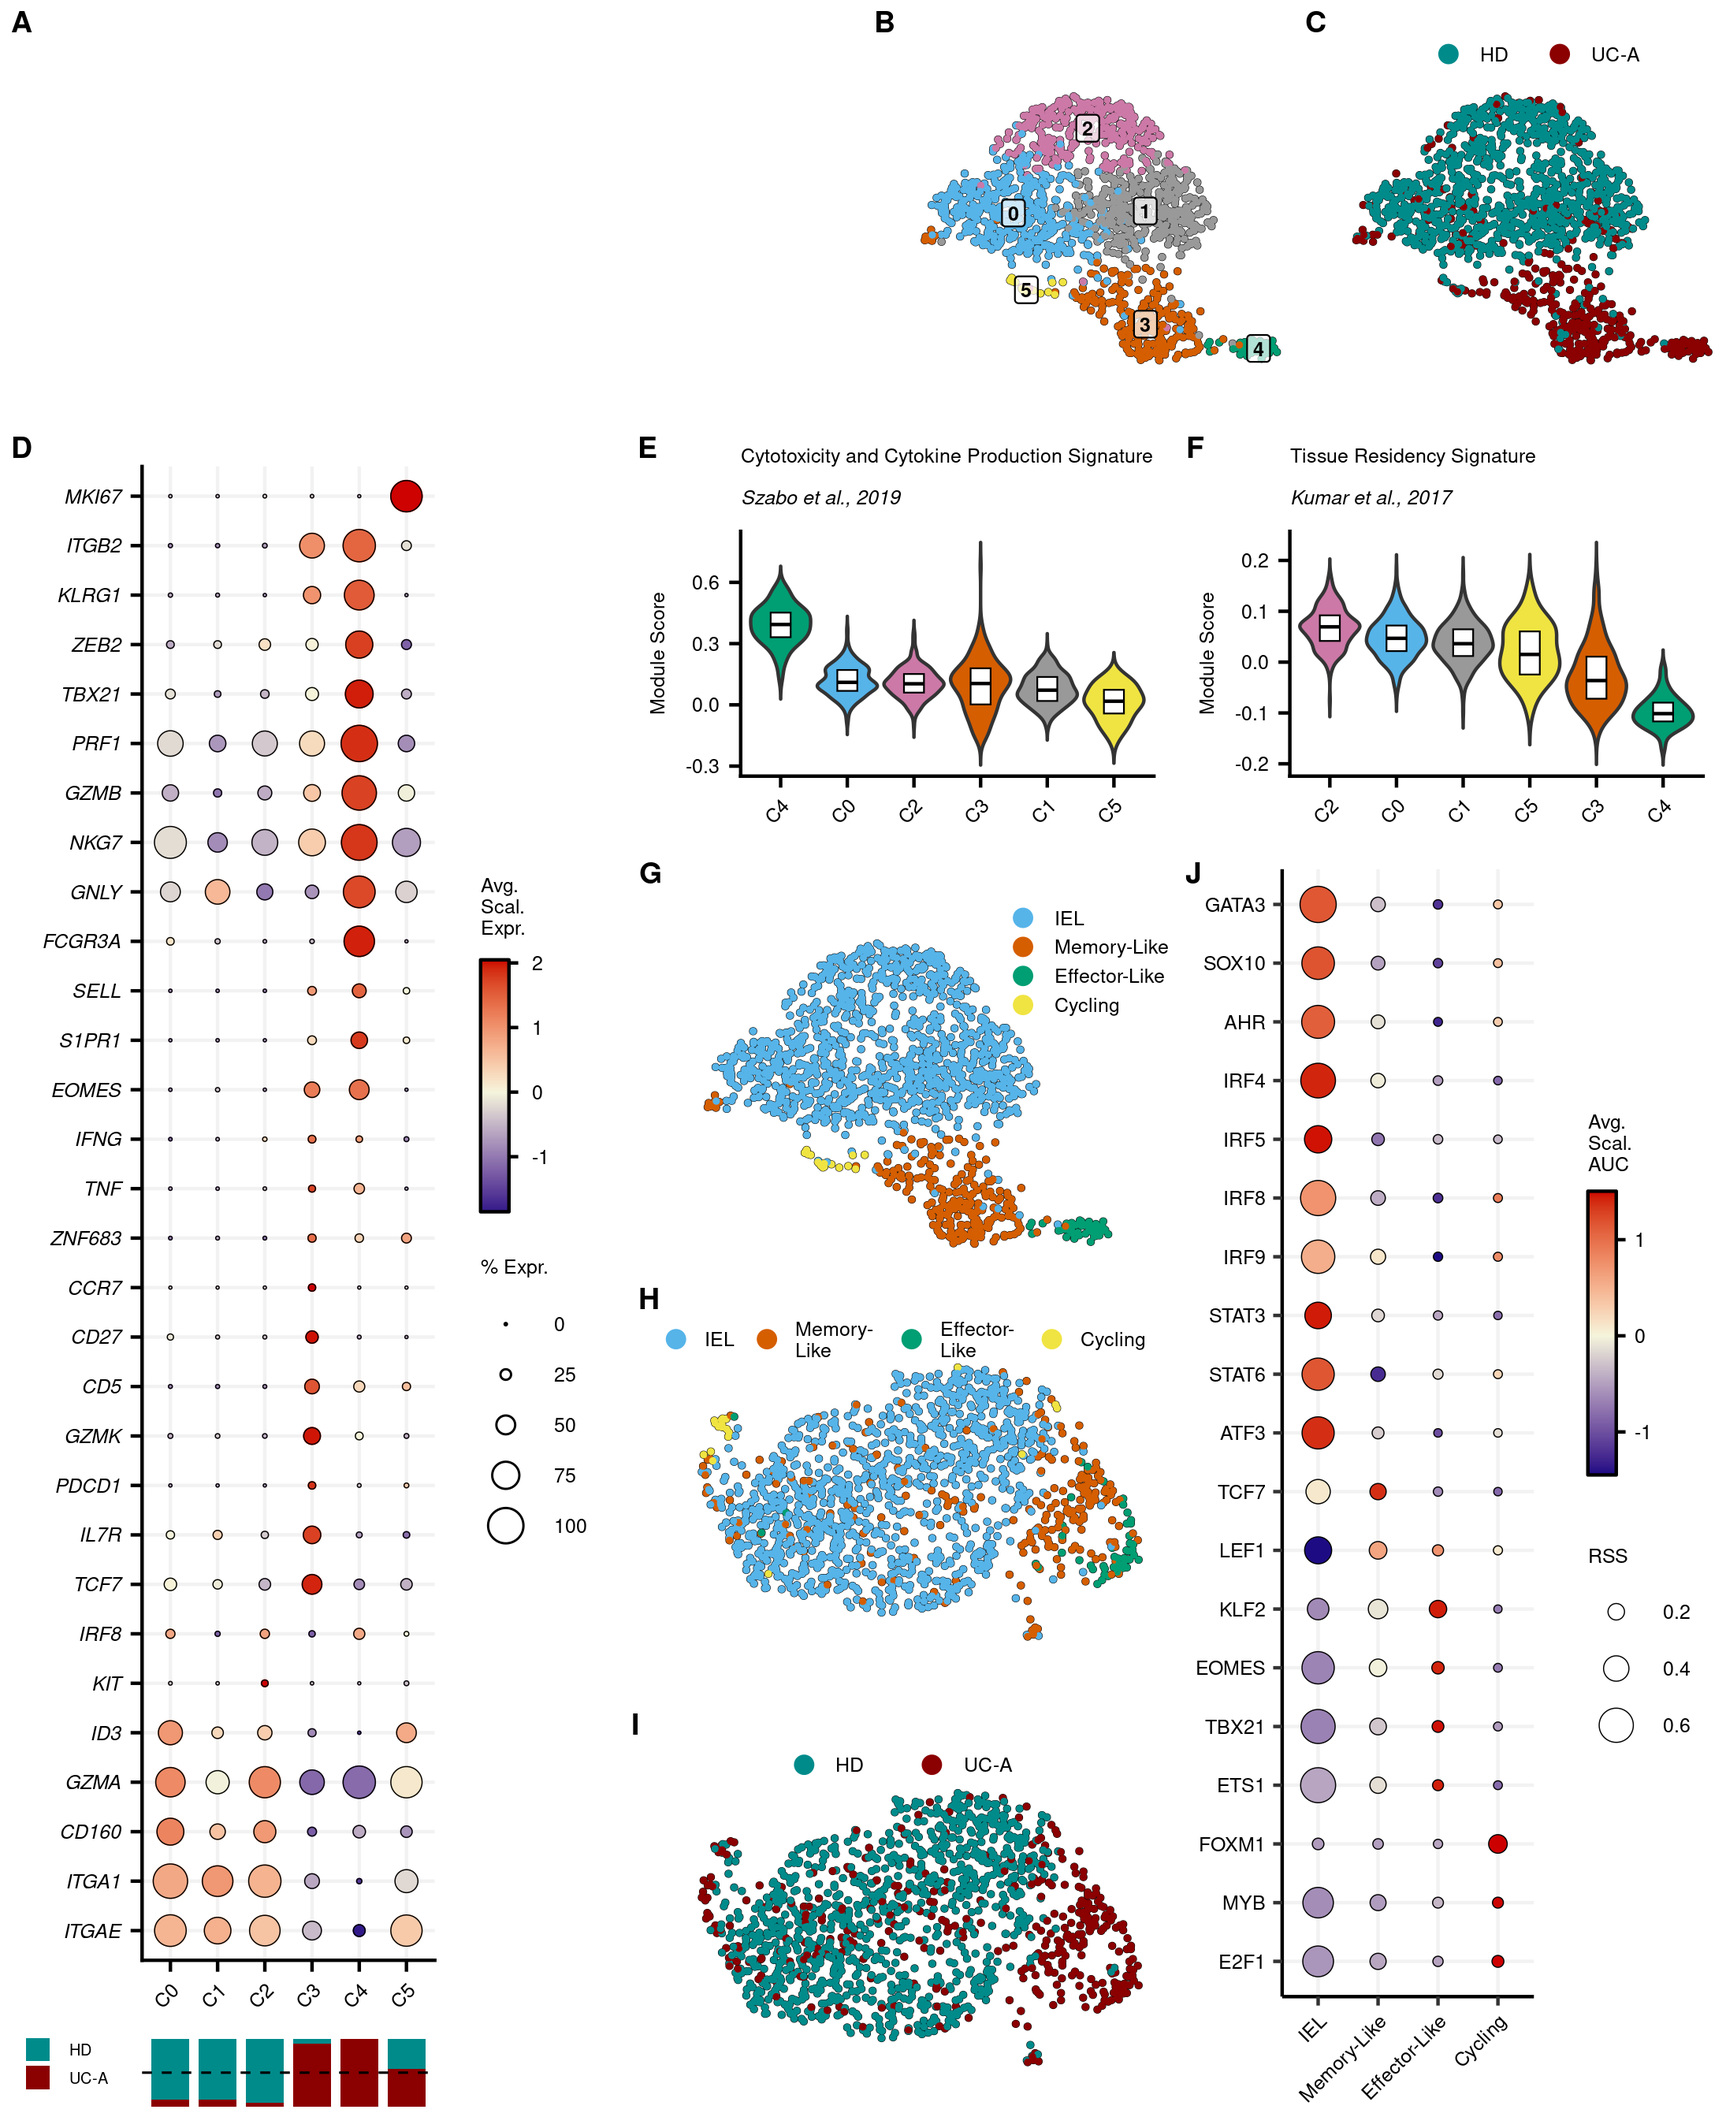
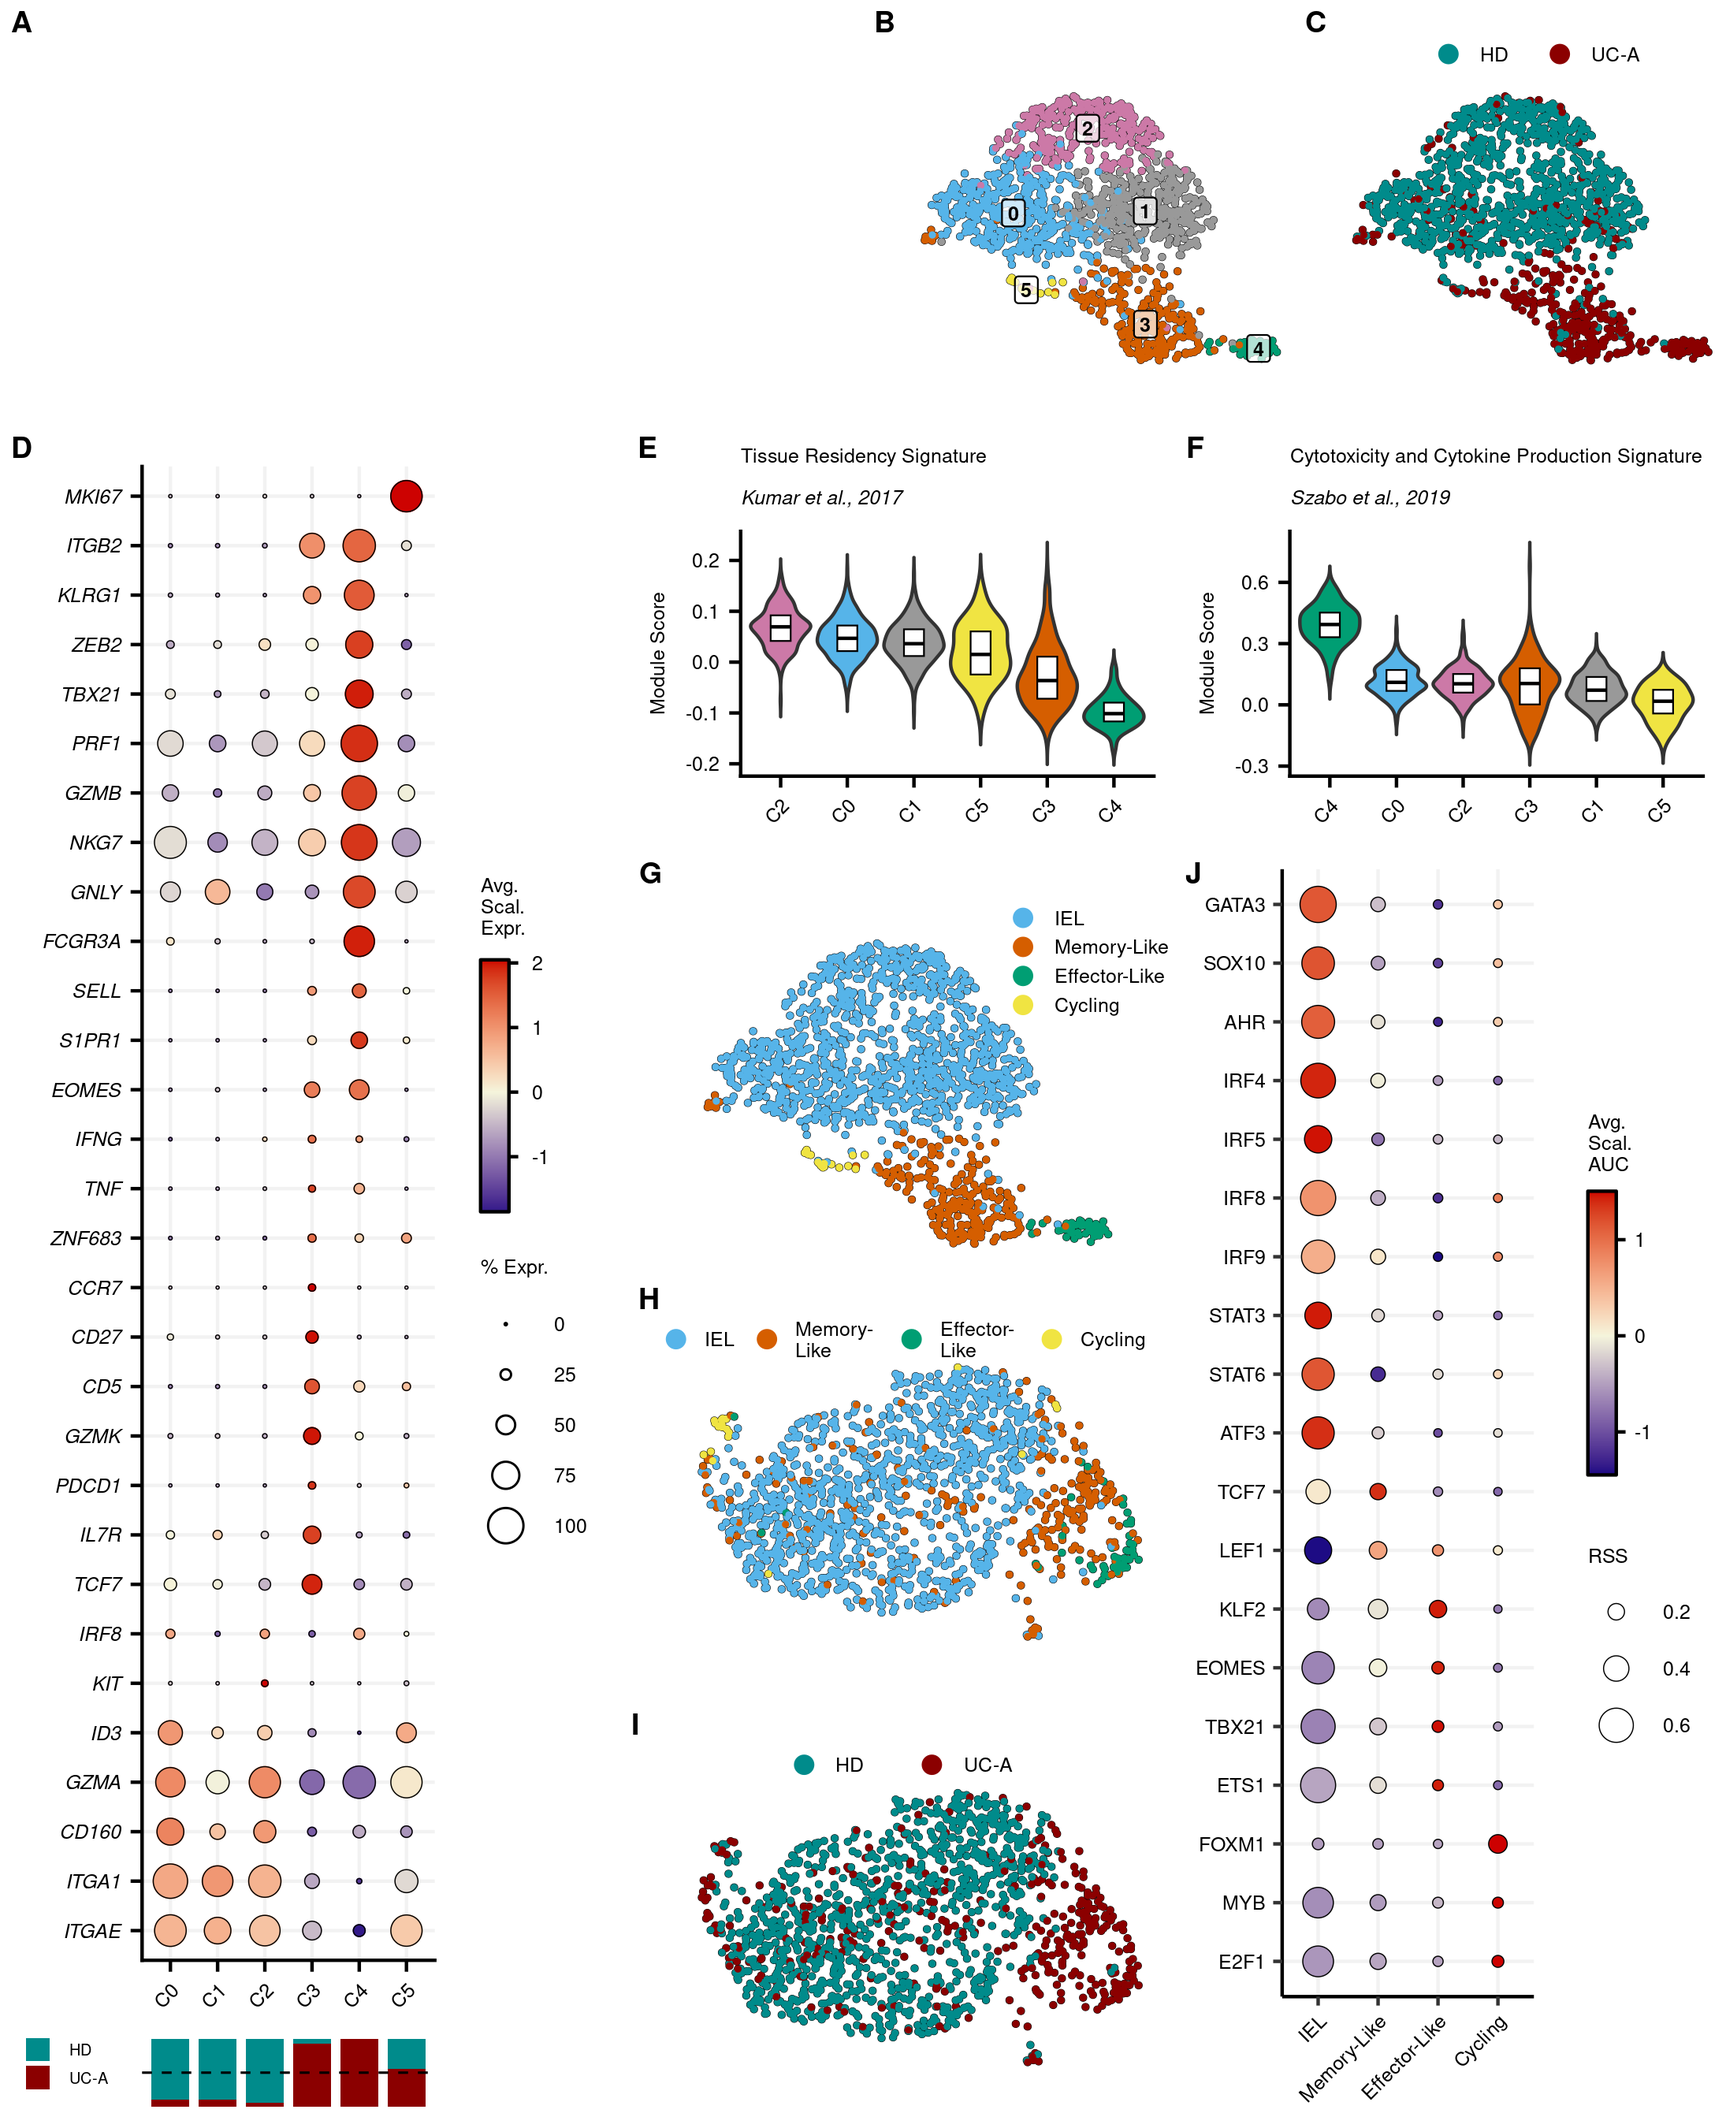
update

diff --git a/2_figures_code/FLASHseq/figures_FLASHseq.md b/2_figures_code/FLASHseq/figures_FLASHseq.md
@@ -173,11 +173,11 @@ for (i in seq_along(p)){
   p[[i]][["layers"]][[1]][["stat_params"]][["trim"]] <- F
 }
 
-e <- p[[1]]+ggtitle(label="Cytotoxicity and Cytokine Production Signature",
-               subtitle="Szabo et al., 2019")
-
-f <- p[[2]]+ggtitle(label="Tissue Residency Signature",
+e <- p[[2]]+ggtitle(label="Tissue Residency Signature",
                subtitle="Kumar et al., 2017")
+
+f <- p[[1]]+ggtitle(label="Cytotoxicity and Cytokine Production Signature",
+               subtitle="Szabo et al., 2019")
 ```
 
 ## G
